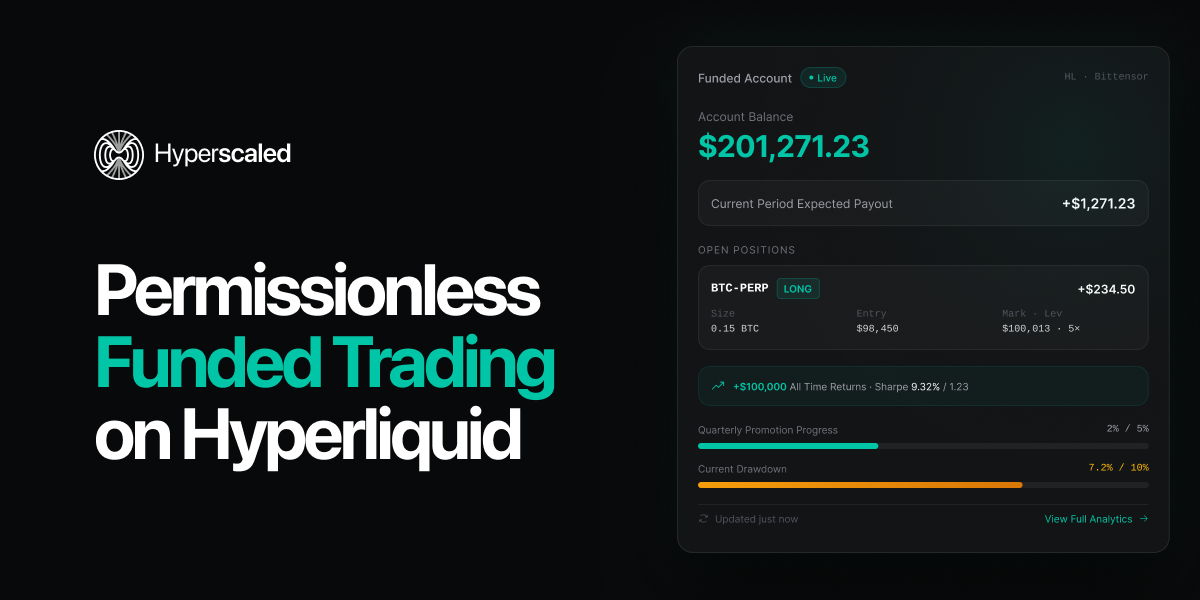
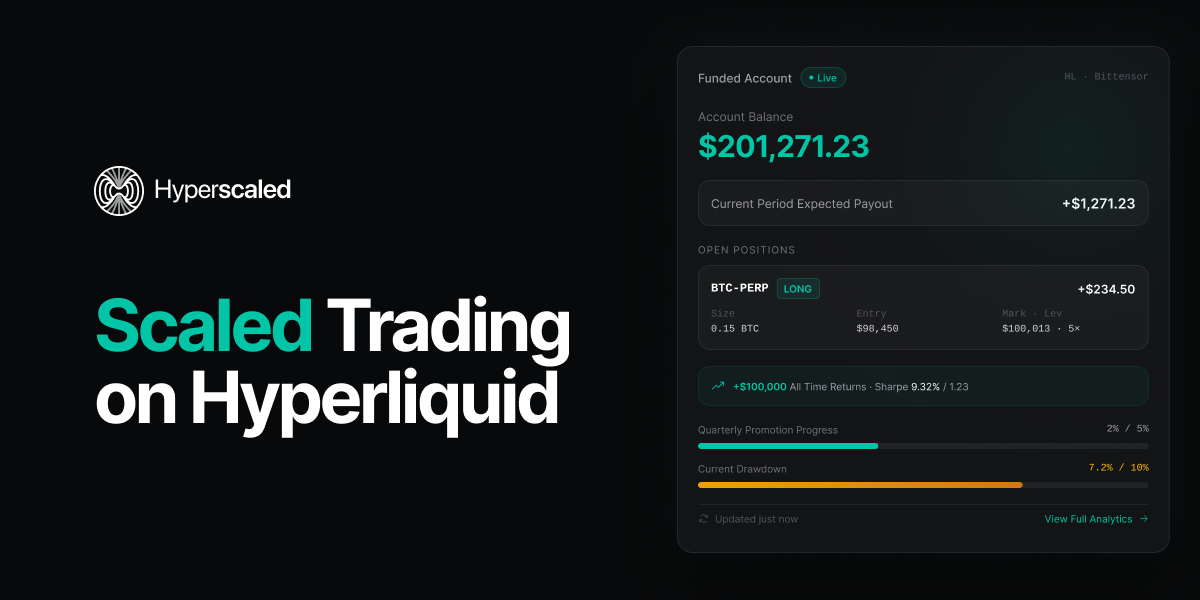
update OG image and fix metadata dimensions
Replace OG image with new branded design and update height from 630 to 600 to match actual image dimensions across all metadata configs.

Changed region(s): [[0.0617, 0.42, 0.4933, 0.78], [0.0617, 0.21, 0.2467, 0.36]]

diff --git a/lib/metadata.js b/lib/metadata.js
@@ -15,7 +15,7 @@ const BRAND_META = {
     ogImage: {
       url: "/og.png",
       width: 1200,
-      height: 630,
+      height: 600,
       alt: "Hyperscaled — Scaled Trading on Hyperliquid",
     },
   },
@@ -26,7 +26,7 @@ const BRAND_META = {
     ogImage: {
       url: "/og.png",
       width: 1200,
-      height: 630,
+      height: 600,
       alt: "Vanta Trading — Scaled Trading on Hyperliquid",
     },
   },

diff --git a/app/layout.jsx b/app/layout.jsx
@@ -8,7 +8,7 @@ const SITE_URL = "https://hyperscaled.trade";
 const OG_IMAGE = {
   url: "/og.png",
   width: 1200,
-  height: 630,
+  height: 600,
   alt: "Hyperscaled — Scaled Trading on Hyperliquid",
 };
 
